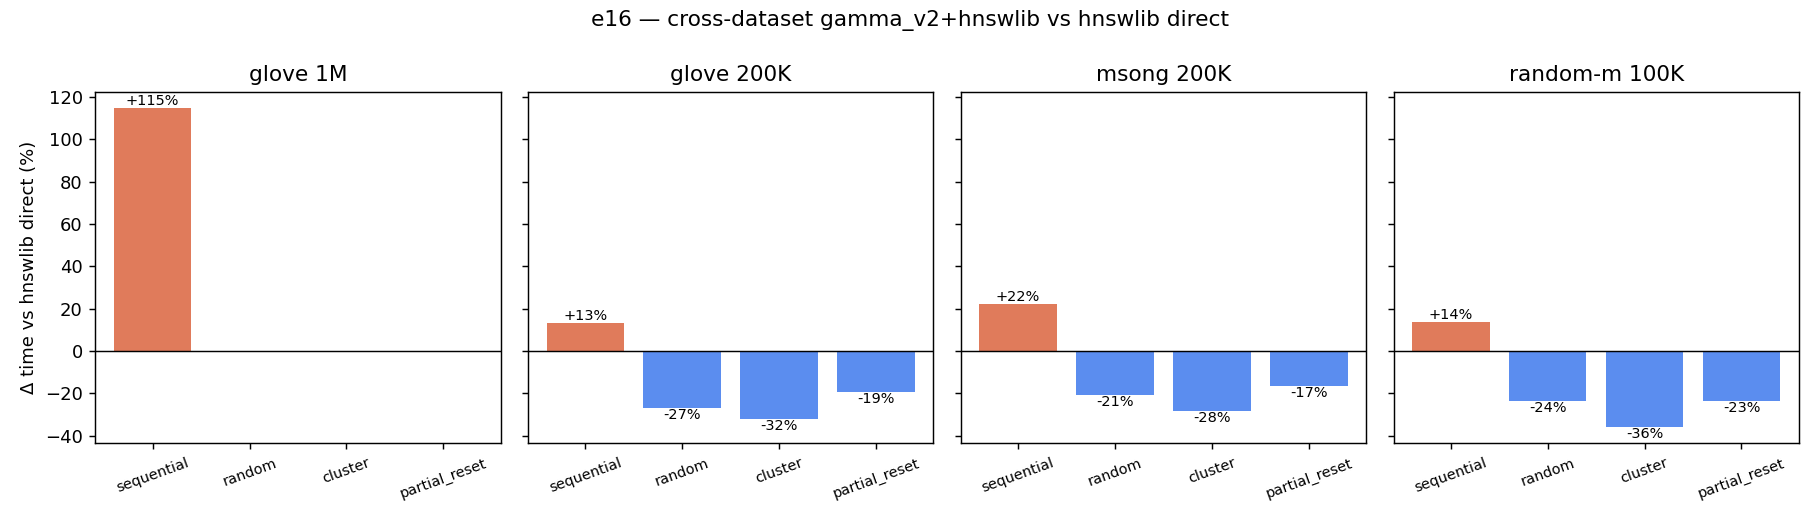
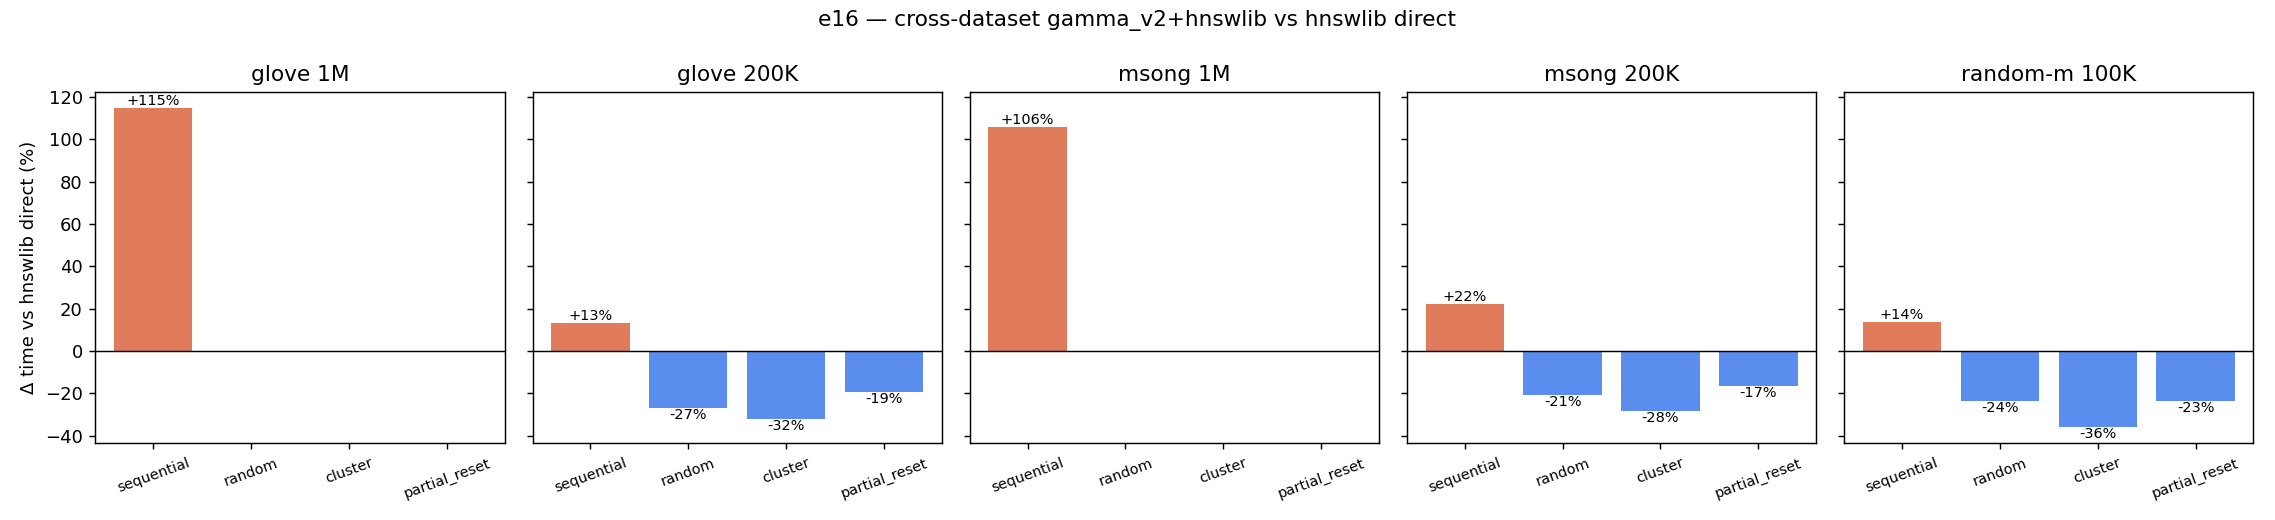
e17 partial_reset complete + e16 1M progress in flight
- e17 partial_reset 12/12 rows (last 4 ratios): at extreme churn (1.5x/2.0x/3.0x)
  gamma wins -73%/-62%/-69% on partial_reset; recall dips to 0.92-0.93 at
  ratio 1.5-2.0 then recovers to 0.997 at ratio 3.0.
- e16 msong/glove 1M sequential confirms the SIFT 1M finding: gamma loses
  hard on sequential at large scale (msong 1M: gamma+hnswlib +106%; glove
  1M: +115%). Random pattern at 1M still in flight.

diff --git a/experiments/ALL_RESULTS_TABLE.md b/experiments/ALL_RESULTS_TABLE.md
@@ -1,6 +1,6 @@
 # All experiment results (auto-generated)
 
-Auto-generated from `experiments/_shared/aggregate.py`. Total rows: **595**.
+Auto-generated from `experiments/_shared/aggregate.py`. Total rows: **601**.
 
 ## e01_write_throughput
 
@@ -354,6 +354,8 @@ Auto-generated from `experiments/_shared/aggregate.py`. Total rows: **595**.
 |---|---|---|---|---|---|---|---|---|
 | gamma_v2+hnswlib | 1M | glove | sequential | 3738.1 | 0.8710 | 3.213 | 110000 | 890000 |
 | hnswlib direct | 1M | glove | sequential | 1739.4 | 0.8795 | 1.978 | 110000 | 890000 |
+| gamma_v2+faiss_hnsw | 1M | glove | sequential | 265.3 | 0.6635 | 0.620 | 110000 | 890000 |
+| faiss_hnsw direct | 1M | glove | sequential | 258.7 | 0.6595 | 0.620 | 110000 | 890000 |
 | gamma_v2+hnswlib | 200K | glove | sequential | 507.4 | 0.9340 | 2.633 | 22500 | 177500 |
 | hnswlib direct | 200K | glove | sequential | 447.8 | 0.9335 | 2.982 | 22500 | 177500 |
 | gamma_v2+faiss_hnsw | 200K | glove | sequential | 77.3 | 0.7110 | 0.551 | 22500 | 177500 |
@@ -370,6 +372,8 @@ Auto-generated from `experiments/_shared/aggregate.py`. Total rows: **595**.
 | hnswlib direct | 200K | glove | partial_reset | 235.5 | 0.9230 | 1.740 | 40000 | 160000 |
 | gamma_v2+faiss_hnsw | 200K | glove | partial_reset | 49.2 | 0.7840 | 0.413 | 40000 | 160000 |
 | faiss_hnsw direct | 200K | glove | partial_reset | 60.8 | 0.7760 | 0.440 | 40000 | 160000 |
+| gamma_v2+hnswlib | 1M | msong | sequential | 4313.3 | 0.9935 | 3.749 | 102272 | 890000 |
+| hnswlib direct | 1M | msong | sequential | 2096.6 | 0.9945 | 2.824 | 102272 | 890000 |
 | gamma_v2+hnswlib | 200K | msong | sequential | 692.6 | 0.9985 | 3.849 | 22500 | 177500 |
 | hnswlib direct | 200K | msong | sequential | 566.2 | 0.9990 | 4.001 | 22500 | 177500 |
 | gamma_v2+faiss_hnsw | 200K | msong | sequential | 100.8 | 0.9420 | 0.648 | 22500 | 177500 |
@@ -429,6 +433,8 @@ Auto-generated from `experiments/_shared/aggregate.py`. Total rows: **595**.
 | hnswlib direct | 200K | partial_reset | 1.5 | 2470.9 | 0.9982 | 20.148 | 17500 | 182500 |
 | gamma_v2+hnswlib | 200K | partial_reset | 2.0 | 392.0 | 0.9250 | 3.099 | 17500 | 182500 |
 | hnswlib direct | 200K | partial_reset | 2.0 | 1028.7 | 0.9988 | 9.880 | 17500 | 182500 |
+| gamma_v2+hnswlib | 200K | partial_reset | 3.0 | 273.9 | 0.9968 | 2.835 | 17500 | 182500 |
+| hnswlib direct | 200K | partial_reset | 3.0 | 887.7 | 0.9978 | 6.932 | 17500 | 182500 |
 | gamma_v2+hnswlib | 200K | random | 0.25 | 69.4 | 0.9946 | 0.305 | 155625 | 44375 |
 | hnswlib direct | 200K | random | 0.25 | 71.1 | 0.9946 | 0.309 | 155625 | 44375 |
 | gamma_v2+hnswlib | 200K | random | 0.5 | 81.1 | 0.9940 | 0.398 | 111250 | 88750 |

diff --git a/experiments/ALL_DELTAS_TABLE.md b/experiments/ALL_DELTAS_TABLE.md
@@ -9,6 +9,7 @@
 | e17_churn_rate_sweep |  | 200K | random | ratio=1.5 | 279.1 | 991.9 | -71.9% | 1.0000 | 1.0000 |
 | e17_churn_rate_sweep |  | 200K | cluster | ratio=2.0 | 178.9 | 631.4 | -71.7% | 0.9998 | 1.0000 |
 | e17_churn_rate_sweep |  | 200K | random | ratio=2.0 | 213.7 | 727.8 | -70.6% | 1.0000 | 1.0000 |
+| e17_churn_rate_sweep |  | 200K | partial_reset | ratio=3.0 | 273.9 | 887.7 | -69.1% | 0.9968 | 0.9978 |
 | e17_churn_rate_sweep |  | 200K | partial_reset | ratio=2.0 | 392.0 | 1028.7 | -61.9% | 0.9250 | 0.9988 |
 | e17_churn_rate_sweep |  | 200K | sequential | ratio=1.5 | 406.9 | 1002.1 | -59.4% | 0.9892 | 1.0000 |
 | e17_churn_rate_sweep |  | 200K | random | ratio=3.0 | 256.2 | 569.6 | -55.0% | 1.0000 | 1.0000 |
@@ -155,6 +156,7 @@
 | e23_multi_seed_variance |  | 200K | cluster |  | 142.2 | 140.7 | +1.1% | 0.9992 | 0.9992 |
 | e17_churn_rate_sweep |  | 200K | sequential | ratio=0.5 | 92.7 | 91.3 | +1.5% | 0.9942 | 0.9948 |
 | e20_router_component_ablation | sift | 200K | sequential |  | 250.9 | 245.6 | +2.1% | 0.9984 | 0.9984 |
+| e16_cross_dataset | glove | 1M | sequential |  | 265.3 | 258.7 | +2.6% | 0.6635 | 0.6595 |
 | e20_router_component_ablation | sift | 200K | cluster |  | 244.7 | 237.5 | +3.0% | 0.9994 | 0.9994 |
 | e20_router_component_ablation | glove | 200K | random |  | 413.4 | 398.1 | +3.8% | 0.9380 | 0.9430 |
 | e20_router_component_ablation | sift | 200K | random |  | 239.6 | 230.7 | +3.9% | 0.9990 | 0.9990 |
@@ -187,6 +189,7 @@
 | e22_cpp_tuned |  | 200K | random |  | 110.6 | 58.0 | +90.6% | 0.9996 | 0.9042 |
 | e22_cpp_tuned |  | 200K | cluster |  | 116.4 | 58.4 | +99.2% | 0.9986 | 0.9104 |
 | e22_cpp_tuned |  | 200K | partial_reset |  | 116.1 | 57.8 | +100.8% | 0.0020 | 0.9454 |
+| e16_cross_dataset | msong | 1M | sequential |  | 4313.3 | 2096.6 | +105.7% | 0.9935 | 0.9945 |
 | e22_cpp_tuned |  | 200K | sequential |  | 118.3 | 57.4 | +106.1% | 1.0000 | 0.9030 |
 | e22_cpp_tuned |  | 200K | cluster |  | 123.3 | 58.4 | +111.2% | 0.9986 | 0.9104 |
 | e22_cpp_tuned |  | 200K | random |  | 123.4 | 58.0 | +112.7% | 0.9996 | 0.9042 |